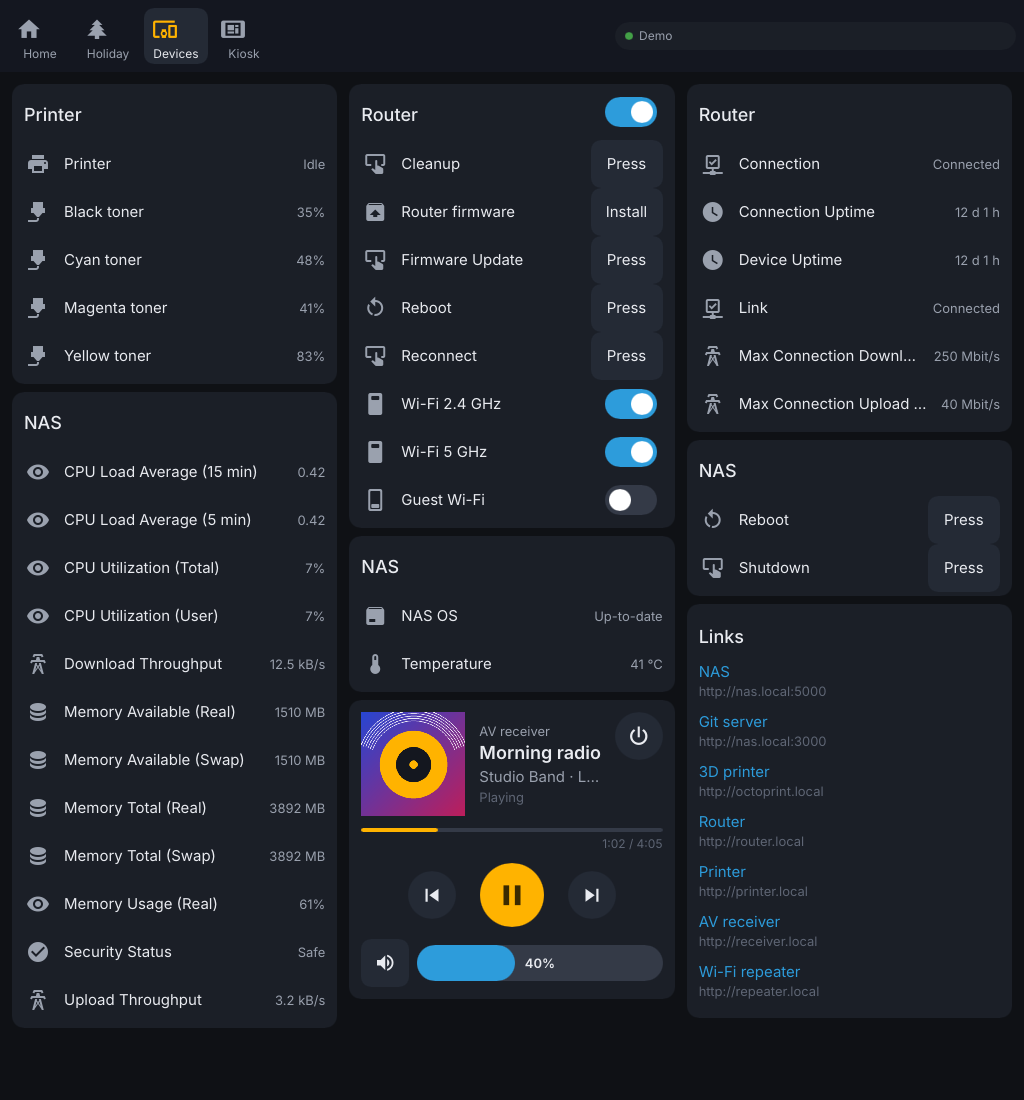
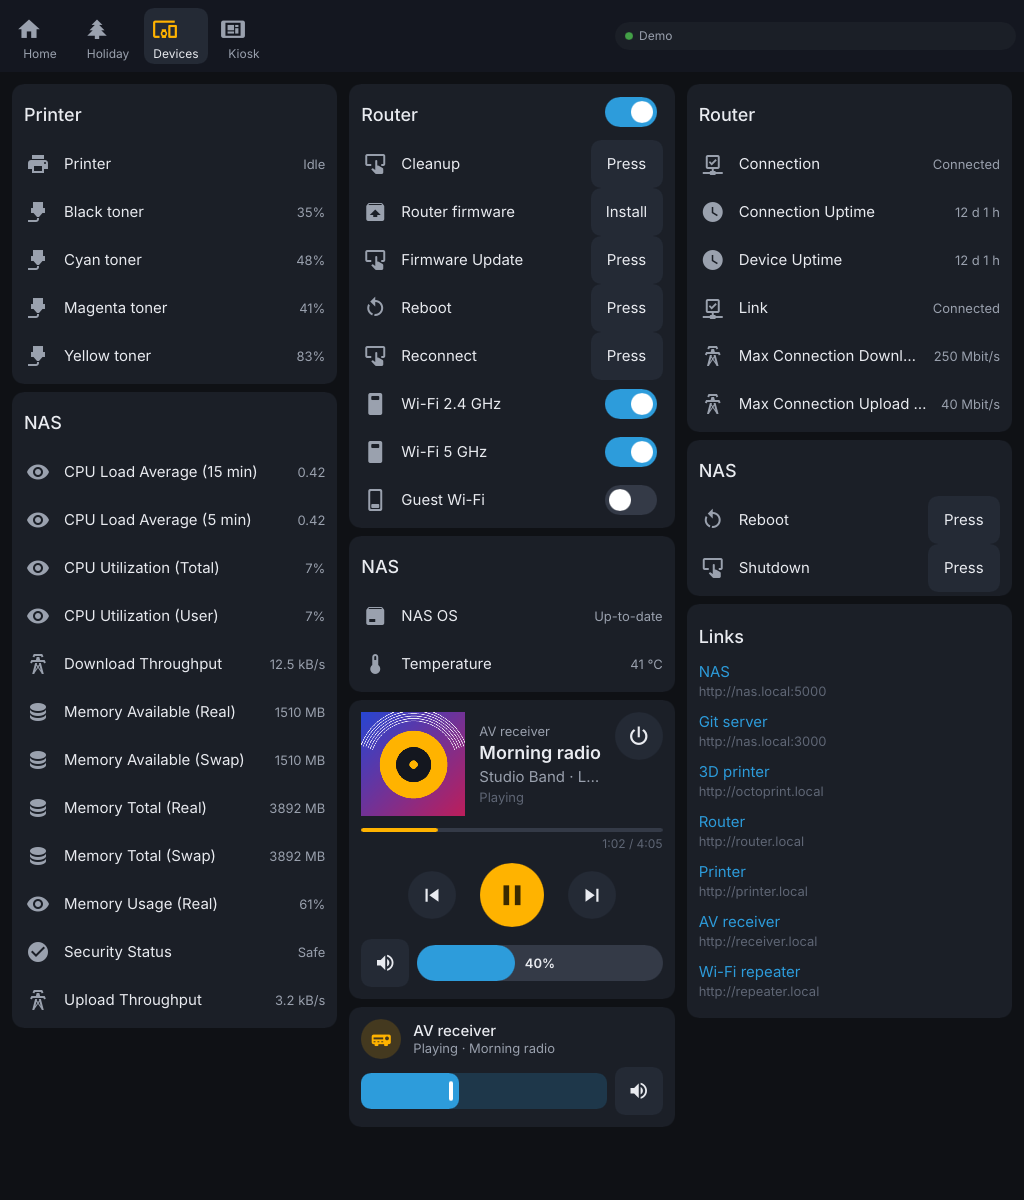
Tile feature media-player-volume-slider: volume slider and mute button
Home Assistant's tile feature for media player volume was ignored as unknown.
It is now drawn as in HA: a slider with a handle (0-100 %, sets
media_player.volume_set) and, when the player supports it, a mute button on
the right. Both are disabled while the player is off. The "powered" rule of
the media card moves to media::is_powered and is shared.

The demo dashboard gets such a tile (Devices view); devices-full.png is taller
so it fits. Version 0.6.1.

Claude-Session: https://claude.ai/code/session_01WX3sFixJYap7m8TkwMzaqG

diff --git a/crates/hada/src/build_ui.rs b/crates/hada/src/build_ui.rs
@@ -233,10 +233,7 @@ pub fn fill_media(
         return;
     };
     let f = MediaFeatures::of(s);
-    leaf.powered = !matches!(
-        s.state.as_str(),
-        "off" | "standby" | "unavailable" | "unknown"
-    );
+    leaf.powered = media::is_powered(s);
     leaf.playing = s.state == "playing";
     leaf.subtitle = domain::state_word(&entity.entity_id, s, tr).into();
     leaf.value_text = s.attr_str("media_title").unwrap_or("").into();
@@ -1351,6 +1348,7 @@ fn slider_kind(k: CoreSliderKind) -> SliderKind {
         CoreSliderKind::CoverTilt => SliderKind::CoverTilt,
         CoreSliderKind::Number => SliderKind::Number,
         CoreSliderKind::Temperature => SliderKind::Temperature,
+        CoreSliderKind::Volume => SliderKind::Volume,
     }
 }
 
@@ -1458,6 +1456,14 @@ pub fn fill_feature(
     if let Feature::Button { action_name } = feature {
         f.label = action_name.as_deref().unwrap_or("").into();
     }
+    if let Feature::MediaPlayerVolumeSlider = feature {
+        // Volume only works while the player is on.
+        f.available = st.is_some_and(hada_core::media::is_powered);
+        f.can_mute = st.is_some_and(|s| hada_core::media::MediaFeatures::of(s).mute);
+        f.muted = st
+            .and_then(|s| s.attr_bool("is_volume_muted"))
+            .unwrap_or(false);
+    }
 }
 
 #[cfg(test)]
@@ -1465,6 +1471,32 @@ mod tests {
     use super::*;
     use hada_core::timefmt::LOCALE_IT;
     use serde_json::json;
+
+    #[test]
+    fn volume_feature_follows_the_player() {
+        let entity = EntityRef::new("media_player.avr");
+        let feature = Feature::MediaPlayerVolumeSlider;
+        // VOLUME_SET (4) | VOLUME_MUTE (8)
+        let on = EntityState::new("playing")
+            .with_attr("supported_features", json!(12))
+            .with_attr("volume_level", json!(0.4))
+            .with_attr("is_volume_muted", json!(true));
+        let mut f = FeatureData::default();
+        fill_feature(&mut f, &entity, &feature, Some(&on));
+        assert_eq!(f.kind, ControlKind::Slider);
+        assert_eq!(f.slider_kind, SliderKind::Volume);
+        assert_eq!(f.value, 40.0);
+        assert!(f.available && f.can_mute && f.muted);
+
+        let mut off = on.clone();
+        off.state = "off".into();
+        fill_feature(&mut f, &entity, &feature, Some(&off));
+        assert!(!f.available, "no volume while the player is off");
+
+        let no_mute = EntityState::new("on").with_attr("supported_features", json!(4));
+        fill_feature(&mut f, &entity, &feature, Some(&no_mute));
+        assert!(f.available && !f.can_mute && !f.muted);
+    }
 
     #[test]
     fn forecast_columns_fit_the_card() {

diff --git a/crates/hada-core/src/domain.rs b/crates/hada-core/src/domain.rs
@@ -306,6 +306,8 @@ pub enum SliderKind {
     CoverTilt,
     Number,
     Temperature,
+    /// Media player volume, 0–100 %.
+    Volume,
 }
 
 /// The one control shown at the right of an `entities` row / glance tap.
@@ -413,6 +415,17 @@ pub fn feature_control(entity_id: &str, feature: &Feature, st: Option<&EntitySta
                 Control::None
             }
         }
+        Feature::MediaPlayerVolumeSlider => match st {
+            Some(s) if crate::media::MediaFeatures::of(s).volume => Control::Slider(SliderSpec {
+                kind: SliderKind::Volume,
+                min: 0.0,
+                max: 100.0,
+                step: 1.0,
+                value: (s.attr_f64("volume_level").unwrap_or(0.0) * 100.0).round(),
+                unit: "%",
+            }),
+            _ => Control::None,
+        },
         Feature::Button { .. } => match domain {
             "button" => Control::Press,
             _ => Control::Run,
@@ -547,5 +560,28 @@ mod tests {
             Control::Slider(s) => assert_eq!(s.value, 100.0),
             other => panic!("{other:?}"),
         }
+    }
+
+    #[test]
+    fn media_player_volume_slider() {
+        let f = Feature::MediaPlayerVolumeSlider;
+        // VOLUME_SET (4) | VOLUME_MUTE (8)
+        let avr = EntityState::new("on")
+            .with_attr("supported_features", json!(12))
+            .with_attr("volume_level", json!(0.46));
+        match feature_control("media_player.avr", &f, Some(&avr)) {
+            Control::Slider(s) => {
+                assert_eq!(s.kind, SliderKind::Volume);
+                assert_eq!((s.min, s.max, s.step, s.value), (0.0, 100.0, 1.0, 46.0));
+                assert_eq!(s.unit, "%");
+            }
+            other => panic!("{other:?}"),
+        }
+        let no_volume = EntityState::new("on").with_attr("supported_features", json!(8));
+        assert_eq!(
+            feature_control("media_player.tv", &f, Some(&no_volume)),
+            Control::None
+        );
+        assert_eq!(feature_control("media_player.tv", &f, None), Control::None);
     }
 }

diff --git a/crates/hada-core/src/normalise.rs b/crates/hada-core/src/normalise.rs
@@ -456,6 +456,7 @@ pub fn feature(f: &FeatureConfig) -> Feature {
         "numeric-input" => Feature::NumericInput,
         "target-temperature" => Feature::TargetTemperature,
         "update-actions" => Feature::UpdateActions,
+        "media-player-volume-slider" => Feature::MediaPlayerVolumeSlider,
         "button" => Feature::Button {
             action_name: f.action_name.clone(),
         },
@@ -693,6 +694,22 @@ mod tests {
             }
             _ => panic!(),
         }
+    }
+
+    #[test]
+    fn tile_feature_types() {
+        let of = |t: &str| {
+            feature(&crate::lovelace::FeatureConfig {
+                feature_type: t.into(),
+                ..Default::default()
+            })
+        };
+        assert_eq!(
+            of("media-player-volume-slider"),
+            Feature::MediaPlayerVolumeSlider
+        );
+        assert_eq!(of("light-brightness"), Feature::LightBrightness);
+        assert_eq!(of("alarm-modes"), Feature::Unknown("alarm-modes".into()));
     }
 
     #[test]

diff --git a/crates/hada-core/src/media.rs b/crates/hada-core/src/media.rs
@@ -43,6 +43,14 @@ impl MediaFeatures {
     }
 }
 
+/// Whether the player is on: its controls (volume included) only work then.
+pub fn is_powered(st: &EntityState) -> bool {
+    !matches!(
+        st.state.as_str(),
+        "off" | "standby" | "unavailable" | "unknown"
+    )
+}
+
 /// Position and duration in seconds. While playing, the position moves on from
 /// `media_position_updated_at` (as the Home Assistant frontend does).
 pub fn progress(st: &EntityState, now: f64) -> Option<(f64, f64)> {

diff --git a/crates/hada-core/src/model.rs b/crates/hada-core/src/model.rs
@@ -233,7 +233,11 @@ pub enum Feature {
     NumericInput,
     TargetTemperature,
     UpdateActions,
-    Button { action_name: Option<String> },
+    /// `media-player-volume-slider`: volume slider, plus mute when supported.
+    MediaPlayerVolumeSlider,
+    Button {
+        action_name: Option<String>,
+    },
     Unknown(String),
 }
 

diff --git a/crates/hada-core/src/dashboard_cache.rs b/crates/hada-core/src/dashboard_cache.rs
@@ -199,6 +199,7 @@ mod tests {
                 "test dashboard lacks {kind}"
             );
         }
+        assert!(all.contains("MediaPlayerVolumeSlider"));
         let key = cache_key("http://ha.local:8123/", None);
         let s = Stored {
             key: key.clone(),
